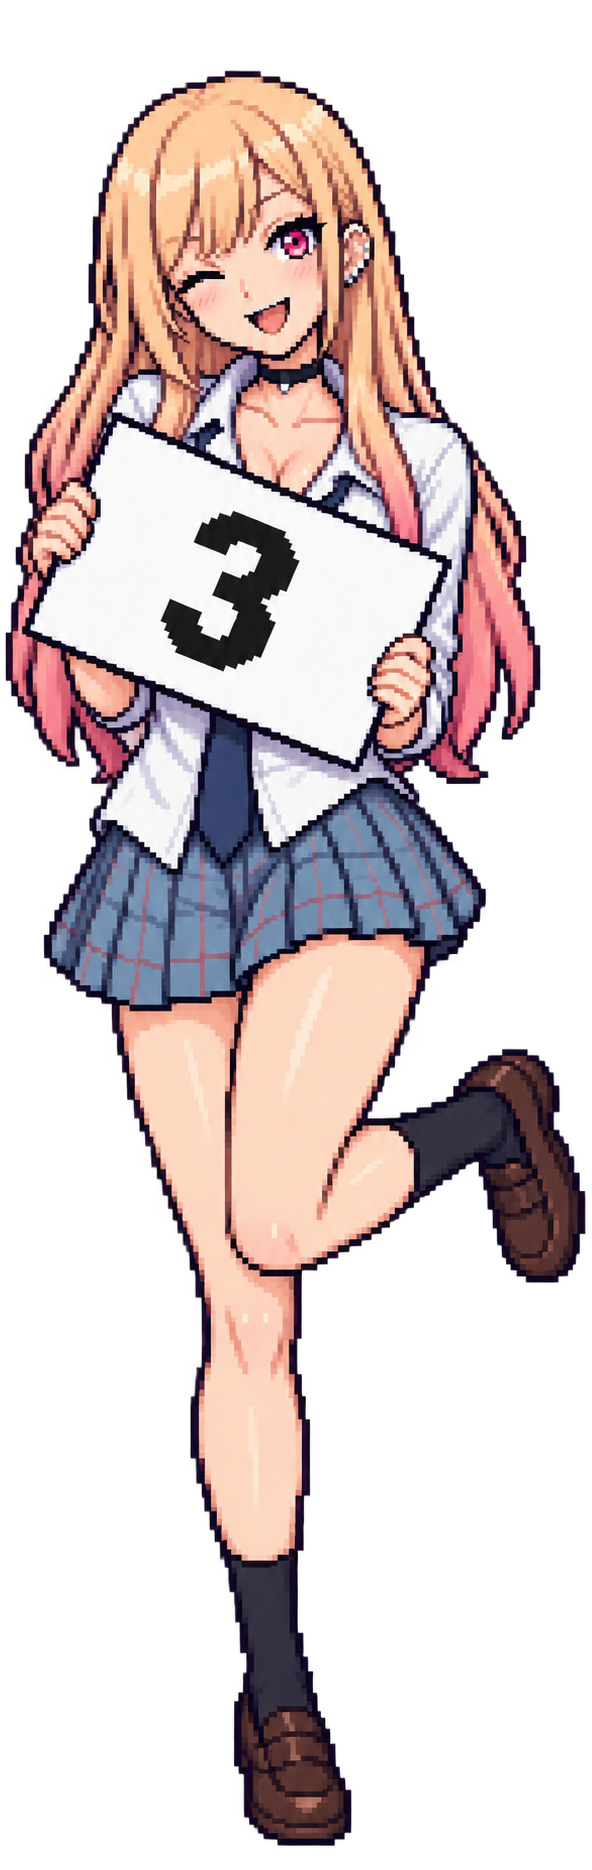
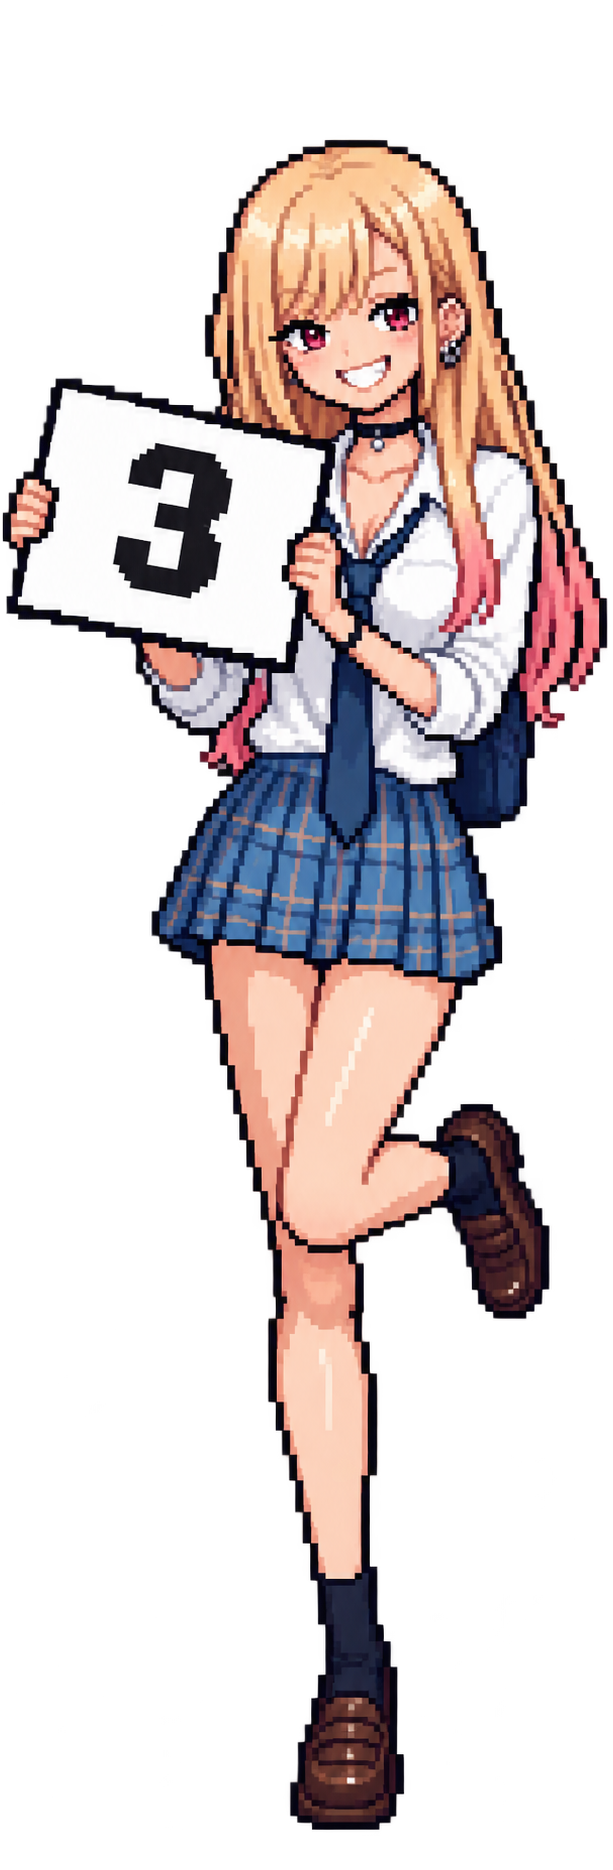
image 3 update & add test readme file

diff --git a/assets/counter/README.md b/assets/counter/README.md
@@ -1,0 +1,13 @@
+<h3 align="center">Test</h3>
+<p align="center">
+  <img src="assets/counter/0.png" height="150" />
+  <img src="assets/counter/1.png" height="150" />
+  <img src="assets/counter/2.png" height="150" />
+  <img src="assets/counter/3.png" height="150" />
+  <img src="assets/counter/4.png" height="150" />
+  <img src="assets/counter/5.png" height="150" />
+  <img src="assets/counter/6.png" height="150" />
+  <img src="assets/counter/7.png" height="150" />
+  <img src="assets/counter/8.png" height="150" />
+  <img src="assets/counter/9.png" height="150" />
+</p>
